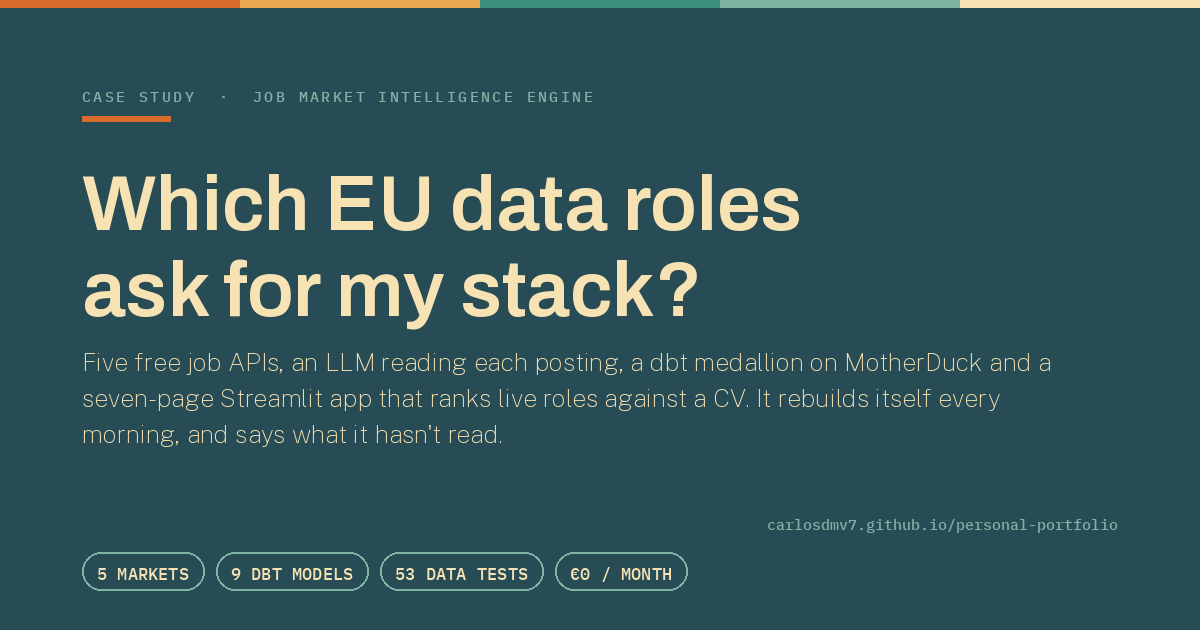
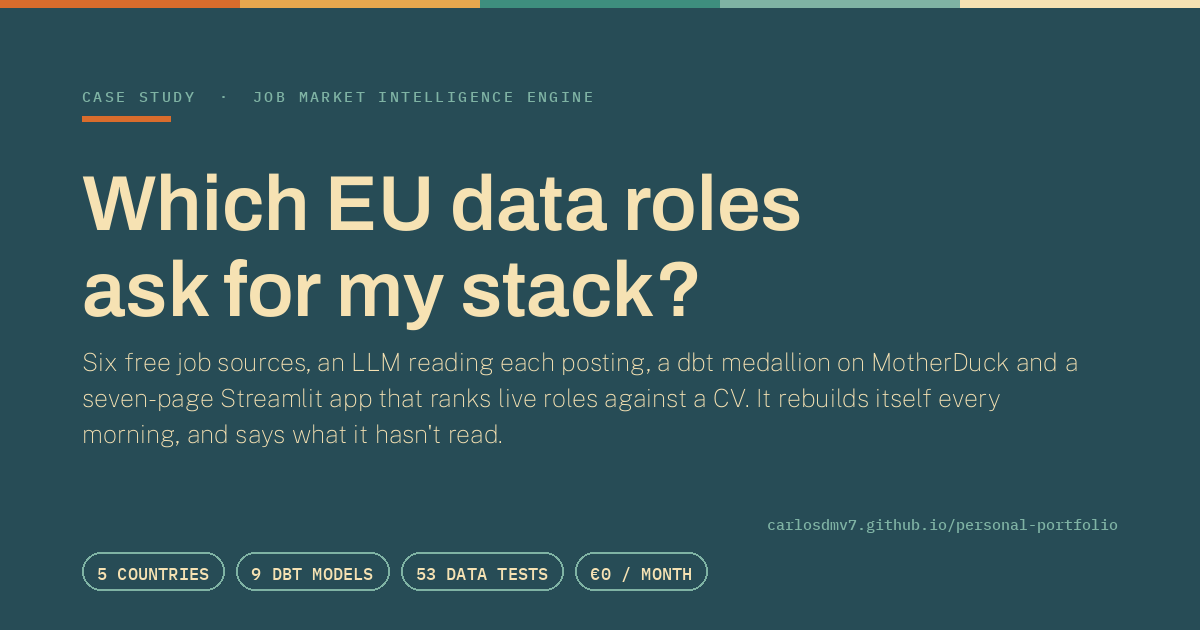
docs(jmi): Ireland joins the case study
Six free job sources now: Ireland, which no open board covers, is read from
33 employers' own Greenhouse and Ashby boards. The copy calls it that rather
than a sixth market, as the app does. Figures from prod on 26 Sep (703 open
roles; the home page still said 767), 220 Python tests (was 176, already
stale), a Greenhouse · Ashby node in the architecture, and the og card's
'5 markets' chip now reads '5 countries'.

diff --git a/projects/job-market-intelligence/index.html b/projects/job-market-intelligence/index.html
@@ -4,19 +4,19 @@
     <meta charset="UTF-8">
     <meta name="viewport" content="width=device-width, initial-scale=1.0">
     <title>Job Market Intelligence Engine — which EU data roles ask for my stack · Carlos De Manuel</title>
-    <meta name="description" content="Case study: a 0€ EU data-jobs platform. Five free job APIs, an LLM reading each posting for its stack, a dbt medallion on MotherDuck, and a seven-page Streamlit app that ranks live roles against a CV — and never reports a posting it hasn't read as a miss.">
+    <meta name="description" content="Case study: a 0€ EU data-jobs platform. Six free job sources, an LLM reading each posting for its stack, a dbt medallion on MotherDuck, and a seven-page Streamlit app that ranks live roles against a CV — and never reports a posting it hasn't read as a miss.">
     <meta name="author" content="Carlos De Manuel Vicente">
     <link rel="canonical" href="https://carlosdmv7.github.io/personal-portfolio/projects/job-market-intelligence/">
 
     <!-- Open Graph / social preview -->
     <meta property="og:type" content="article">
     <meta property="og:title" content="Which EU data roles ask for my stack? — Job Market Intelligence Engine">
-    <meta property="og:description" content="Five free job APIs, an LLM reading each posting, a dbt medallion on MotherDuck and a seven-page Streamlit app that ranks live roles against a CV. Rebuilds itself daily at 0€.">
+    <meta property="og:description" content="Six free job sources, an LLM reading each posting, a dbt medallion on MotherDuck and a seven-page Streamlit app that ranks live roles against a CV. Rebuilds itself daily at 0€.">
     <meta property="og:url" content="https://carlosdmv7.github.io/personal-portfolio/projects/job-market-intelligence/">
     <meta property="og:image" content="https://carlosdmv7.github.io/personal-portfolio/images/og-job-market-intelligence.png">
     <meta property="og:image:width" content="1200">
     <meta property="og:image:height" content="630">
-    <meta property="og:image:alt" content="Case study card: “Which EU data roles ask for my stack?” — 5 markets, 9 dbt models, 53 data tests, €0 per month.">
+    <meta property="og:image:alt" content="Case study card: “Which EU data roles ask for my stack?” — 5 countries, 9 dbt models, 53 data tests, €0 per month.">
     <meta name="twitter:card" content="summary_large_image">
     <meta name="twitter:title" content="Which EU data roles ask for my stack? — Job Market Intelligence Engine">
     <meta name="twitter:description" content="A 0€ EU data-jobs pipeline that ranks live postings against your stack — and never presents a posting it hasn't read as a negative result.">
@@ -65,7 +65,7 @@
                 <header class="case-hero">
                     <span class="eyebrow">Case study · figures verified 19 Sep 2026</span>
                     <h1>Job Market Intelligence Engine</h1>
-                    <p class="case-lede">One question, every morning: which open data roles in the EU are asking for my stack? Five free APIs, an LLM that reads each posting, a dbt medallion on MotherDuck — and a rule that a posting nobody has read yet is never reported as a miss.</p>
+                    <p class="case-lede">One question, every morning: which open data roles in the EU are asking for my stack? Six free sources, an LLM that reads each posting, a dbt medallion on MotherDuck — and a rule that a posting nobody has read yet is never reported as a miss.</p>
                     <div class="tags">
                         <span class="tag accent">dbt</span>
                         <span class="tag accent">LLM enrichment</span>
@@ -138,7 +138,7 @@
                     <div class="case-block">
                         <h2 class="block-label">The problem</h2>
                         <p>Job boards index on title and location — the two fields that tell you least. The one that decides whether a posting is worth opening is <strong>which technologies it actually asks for</strong>, and that only exists as prose.</p>
-                        <p>So the pipeline reads for it. Five free APIs land in an append-only log every morning, an LLM reads each posting for its stack, seniority and working language, and a dbt medallion turns that into one canonical row per posting — <strong>689 open data roles</strong> across five markets on 25 Sep 2026, around 50 of them new each day.</p>
+                        <p>So the pipeline reads for it. Six free sources land in an append-only log every morning, an LLM reads each posting for its stack, seniority and working language, and a dbt medallion turns that into one canonical row per posting — <strong>703 open data roles</strong> on 26 Sep 2026, around 50 of them new each day. Spain, Germany, the Netherlands and Sweden are read from their job boards; Ireland, which no open board covers, from 33 employers' own career sites — so the app lists Irish roles but keeps them out of every chart that compares markets.</p>
                         <p>The free tier allows 20 requests a day, so for most of the project's life the model had read only part of the corpus. One rule carried it: <strong>a posting nobody has read says “not yet classified”, never “no match.”</strong> The backlog is clear now, and the rule matters more — only 47% of roles yield a stack, and the reason is no longer the quota.</p>
                         <figure class="shot">
                             <img src="../../images/jmi/my-fit.webp" alt="The My Fit page: skills detected from a pasted CV shown as removable chips, then every open role ranked by the share of its stack the CV already covers, with the matched technologies listed per row." width="1440" height="1000" loading="lazy" decoding="async">
@@ -156,6 +156,7 @@
                                         <div class="arch-node">Adzuna <small>NL · DE · ES</small></div>
                                         <div class="arch-node">Remotive · Arbeitnow <small>keyless APIs</small></div>
                                         <div class="arch-node">RemoteOK · JobTech <small>keyless APIs</small></div>
+                                        <div class="arch-node">Greenhouse · Ashby <small>IE employers' own boards</small></div>
                                         <div class="arch-node">IND register <small>scraped → dbt seed</small></div>
                                     </div>
                                 </div>
@@ -194,7 +195,7 @@
                                     </div>
                                 </div>
                             </div>
-                            <p class="arch-note">Streamlit front-end, 7 pages · <strong>GitHub Actions cron as the 0€ scheduler</strong> (daily, 05:15 UTC) · Prefect-instrumented flows, no hosted worker · uv workspace monorepo, Pydantic v2 contracts, 176 Python tests</p>
+                            <p class="arch-note">Streamlit front-end, 7 pages · <strong>GitHub Actions cron as the 0€ scheduler</strong> (daily, 05:15 UTC) · Prefect-instrumented flows, no hosted worker · uv workspace monorepo, Pydantic v2 contracts, 220 Python tests</p>
                         </div>
                         <figure class="shot">
                             <img src="../../images/jmi/how-it-works.webp" alt="The How It Works page inside the app: the daily pipeline drawn as a diagram from the free APIs through the LLM read into the dbt models, above a section explaining which signals are looked up and which are read out of prose." width="1440" height="1000" loading="lazy" decoding="async">

diff --git a/index.html b/index.html
@@ -286,9 +286,9 @@
                         </div>
                         <p class="project-desc">
                             A 0€ EU data-jobs platform answering one question every morning: <strong>which open data roles are
-                            asking for my stack?</strong> Five free APIs, an LLM reading each posting for the technologies it
-                            names, a dbt medallion on MotherDuck, and a seven-page Streamlit app that ranks <strong>767 live
-                            postings</strong> across five markets against your CV. It rebuilds itself daily on a cron.
+                            asking for my stack?</strong> Six free job sources, an LLM reading each posting for the technologies it
+                            names, a dbt medallion on MotherDuck, and a seven-page Streamlit app that ranks <strong>703 live
+                            postings</strong> from five countries against your CV. It rebuilds itself daily on a cron.
                         </p>
                         <p class="project-note">
                             Every open role has now been read, but only 47% name a stack — and the app measured <em>why</em>:

diff --git a/tools/make-og-images.py b/tools/make-og-images.py
@@ -42,10 +42,10 @@ CARDS = {
     "og-job-market-intelligence": {
         "eyebrow": "CASE STUDY  ·  JOB MARKET INTELLIGENCE ENGINE",
         "headline": "Which EU data roles\nask for my stack?",
-        "sub": "Five free job APIs, an LLM reading each posting, a dbt medallion on "
+        "sub": "Six free job sources, an LLM reading each posting, a dbt medallion on "
                "MotherDuck and a seven-page Streamlit app that ranks live roles against "
                "a CV. It rebuilds itself every morning, and says what it hasn't read.",
-        "chips": ["5 MARKETS", "9 DBT MODELS", "53 DATA TESTS", "€0 / MONTH"],
+        "chips": ["5 COUNTRIES", "9 DBT MODELS", "53 DATA TESTS", "€0 / MONTH"],
     },
     "og-spanish-housing-radar": {
         "eyebrow": "CASE STUDY  ·  SPANISH HOUSING RADAR",
